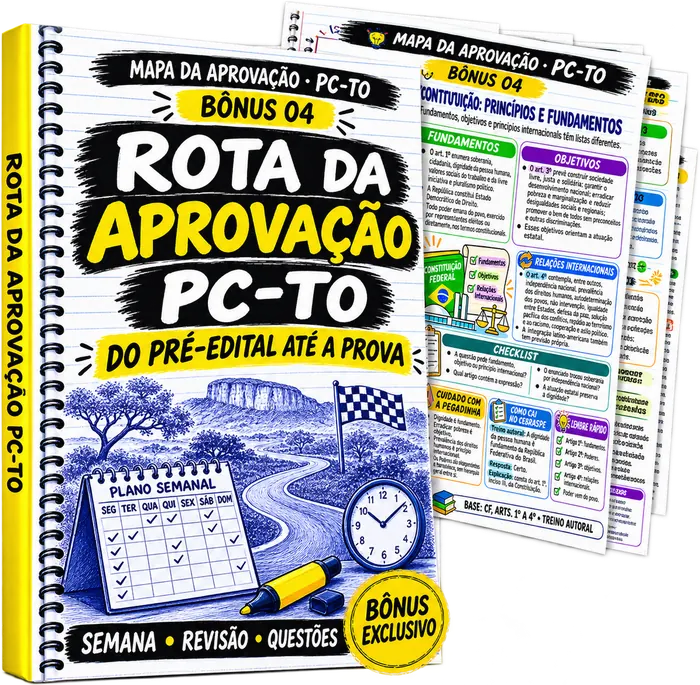
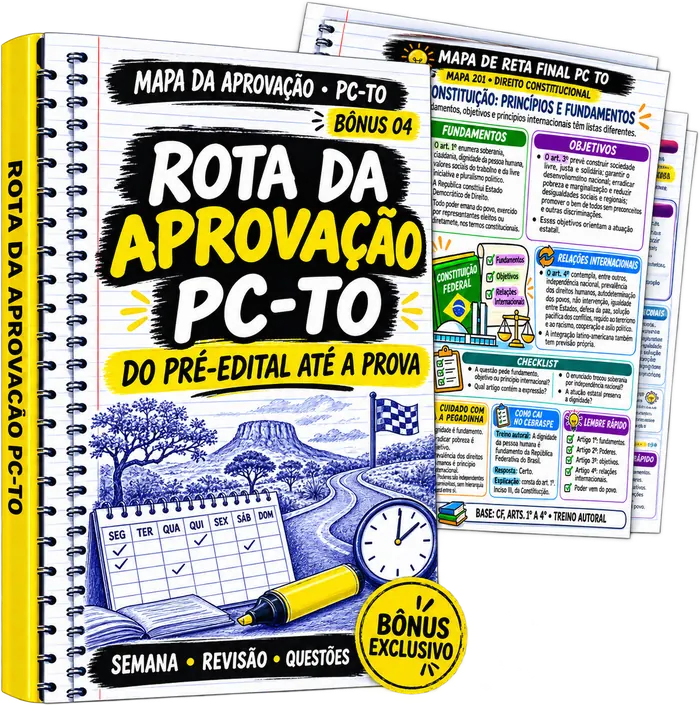
Bônus 04: capa nova com a folha de trás fiel ao mapa real

diff --git a/index.html b/index.html
@@ -275,7 +275,7 @@
 
       <div class="bonus-card">
         <span class="bonus-card__tag">BÔNUS 04</span>
-        <img src="/assets/img/bonus-04.webp?v=9" alt="Rota da Aprovação PC-TO" loading="lazy" />
+        <img src="/assets/img/bonus-04.webp?v=11" alt="Rota da Aprovação PC-TO" loading="lazy" />
         <h3>Rota da Aprovação PC-TO</h3>
         <p>Do pré-edital à prova, semana a semana: o que estudar agora, o que encaixar quando o edital sair, quando revisar e quando resolver questões.</p>
         <p class="bonus-card__extra">É só seguir.</p>
@@ -445,6 +445,6 @@
   </div>
 </footer>
 
-<script src="/assets/js/main.js?v=10"></script>
+<script src="/assets/js/main.js?v=11"></script>
 </body>
 </html>

diff --git a/assets/js/main.js b/assets/js/main.js
@@ -56,7 +56,7 @@ document.addEventListener("DOMContentLoaded", () => {
 
   /* ---------- Stack art (mockup do produto) ---------- */
   document.querySelectorAll(".stack-art").forEach((el) => {
-    el.innerHTML = '<img src="/assets/img/mockup-produto.webp?v=10" alt="Mapa da Aprovação PC-TO: 290 mapas visuais e 4 bônus" loading="lazy" />';
+    el.innerHTML = '<img src="/assets/img/mockup-produto.webp?v=11" alt="Mapa da Aprovação PC-TO: 290 mapas visuais e 4 bônus" loading="lazy" />';
   });
 
   /* ---------- Marquee controls (pause / prev / next) ---------- */

diff --git a/tools/gerar-capas-bonus.py b/tools/gerar-capas-bonus.py
@@ -72,7 +72,8 @@ on a fully transparent background with a soft contact shadow. Do not copy any te
 The book cover design must follow the visual identity of the SECOND image (the PC-TO study material cover):
 white ruled notebook paper with a black spiral binding on the left edge, thick black brush-stroke banners with bold white
 hand lettering, bright yellow highlighter strokes, and illustrations drawn in blue ballpoint pen sketch style.
-The loose pages behind the book must look like the THIRD image (visual study map pages, notebook style, yellow highlights).
+The loose pages behind the book must be copies of the THIRD image (a real study map page): keep its exact titles and text,
+do not invent new page text or new topics.
 
 Cover text, in Brazilian Portuguese, spelled exactly like this and nothing else:
 - top line, small: "MAPA DA APROVAÇÃO · PC-TO"
